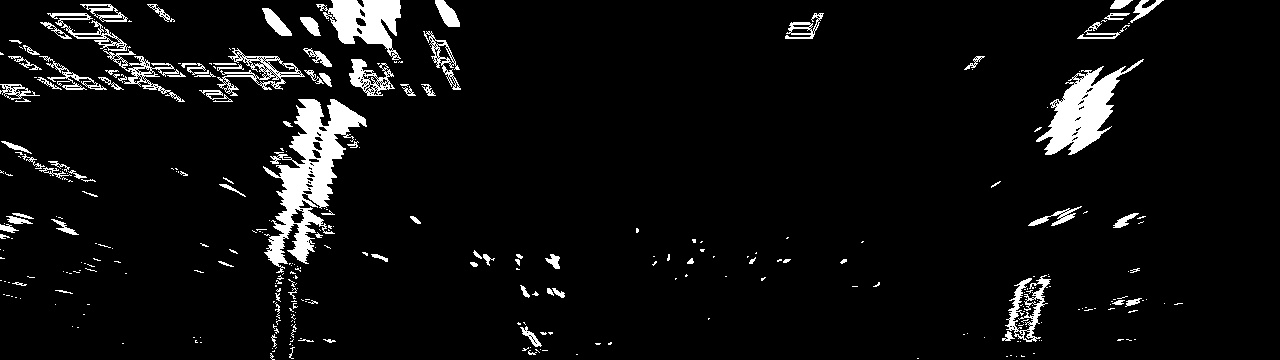
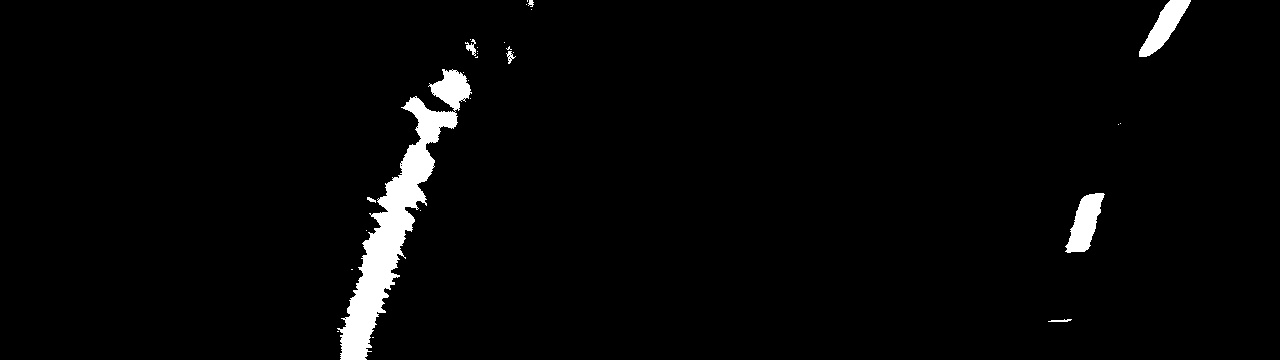
Update: Finding peaks well on test images

diff --git a/enhancer.py b/enhancer.py
@@ -2,7 +2,7 @@ import numpy as np
 import cv2
 
 # Edit this function to create your own pipeline.
-def enhance_lines(img, HLS_thresh=(170, 255), Gray_thresh=(20, 100)):
+def enhance_lines(img, HLS_thresh=(170, 255)):
     """ Apply Color, Sobel, and Thresholds to Enhance Lines
 
     Apply color, Sobel, and gradient thresholds to enhance the lane lines in an RGB image 
@@ -11,38 +11,40 @@ def enhance_lines(img, HLS_thresh=(170, 255), Gray_thresh=(20, 100)):
         img (RGB image): The image to be transformed.  *Color channels must be BGR*
         HLS_thresh (int pair, optional kwarg):
         The lower and upper thresholds for the S color channel after conversion to HLS.  Default=(170, 255)
-        Gray_thresh (int pair, optional kwarg):
-        The lower and upper thresholds for the X Sobel gradient.  Default=(20, 100)
     
     Returns:
         The transformed image (binary image)
     """
     # Convert to HSV color space and separate the channels
-    hsv = cv2.cvtColor(img, cv2.COLOR_RGB2HLS).astype(np.float)
+    hsv = cv2.cvtColor(img, cv2.COLOR_RGB2HSV) # .astype(np.float)
     h_channel = hsv[:,:,0]
-    l_channel = hsv[:,:,1]
+    s_channel = hsv[:,:,1]
+    v_channel = hsv[:,:,2]
+
+    # Mask the yellows
+    # low  = np.array([90, 85, 0])
+    # high = np.array([100, 255, 255])
+    low  = np.array([90, 85, 0])
+    high = np.array([101, 255, 255])
+    yellows = cv2.inRange(hsv, low, high)
+    cv2.imshow('Yellows', yellows)
+
+    # Mask the whites
+    low  = np.array([0, 0, 200])
+    high = np.array([255, 25, 255])
+    whites = cv2.inRange(hsv, low, high)
+    cv2.imshow('Whites', whites)
+
+    # Convert to HLS and threshold S
+    hsv = cv2.cvtColor(img, cv2.COLOR_RGB2HLS).astype(np.float)
     s_channel = hsv[:,:,2]
-
-    # Convert to grayscale
-    gray = cv2.cvtColor(img, cv2.COLOR_RGB2GRAY)
-    # cv2.imshow('Grayscale', gray)
-
-    # Sobel x grayscale
-    sobelx = cv2.Sobel(gray, cv2.CV_64F, 1, 0) # Take the derivative in x
-    abs_sobelx = np.absolute(sobelx) # Absolute x derivative to accentuate lines away from horizontal
-    scaled_sobel = 255*abs_sobelx/np.max(abs_sobelx)
-    
-    # Threshold x gradient grayscale
-    gray_binary = np.zeros_like(scaled_sobel, dtype=np.float)
-    gray_binary[(scaled_sobel >= Gray_thresh[0]) & (scaled_sobel <= Gray_thresh[1])] = 1
-    # cv2.imshow('Sobel', gray_binary)
-    
-    # Threshold S color channel
-    S_binary = cv2.inRange(s_channel, HLS_thresh[0], HLS_thresh[1]).astype(np.float)
-    # cv2.imshow('S Channel', S_binary)
+    s_binary = np.zeros_like(s_channel)
+    s_binary[(s_channel >= HLS_thresh[0]) & (s_channel < HLS_thresh[1])] = 1
+    s_binary = np.asarray(s_binary * 255, dtype=np.uint8)
+    cv2.imshow('s_binary', s_binary)
 
     # Combine the two binary thresholds
-    combined_binary = cv2.bitwise_or(gray_binary, S_binary)
+    combined_binary = cv2.bitwise_or(yellows, cv2.bitwise_or(whites, s_binary))
     
-    return np.asarray(combined_binary * 255, dtype=np.uint8)
+    return combined_binary
     

diff --git a/do_window.py b/do_window.py
@@ -15,10 +15,10 @@ from enhancer import enhance_lines
 # EVERY TIME WE ADJUST.
 #####################################################################
 
-
+print('Import done')
 
 # Read in an image
-fname = 'test1.jpg'
+fname = 'test6.jpg'
 
 # Reload the pickle
 dist_unpickled = pickle.load(open("camera_pickle.p", "rb"))
@@ -37,12 +37,13 @@ cv2.imshow('Birdseye view of {}'.format(fname), birdseye)
 print('birdseye shape: {}'.format(birdseye.shape))
 
 # Enhance the lines
-birdseye = enhance_lines(birdseye, HLS_thresh=[175, 250], Gray_thresh=[13, 150])
+# birdseye = enhance_lines(birdseye, HLS_thresh=[175, 250])
+birdseye = enhance_lines(birdseye, HLS_thresh=[200, 255])
 cv2.imshow('Enhanced {}'.format(fname), birdseye)
 
 # Grab the lower half
 halfsies = half_img(birdseye)
-cv2.imshow('Half of {}'.format(fname), halfsies)
+cv2.imshow('Lower Half of {}'.format(fname), halfsies)
 # cv2.imwrite('halfsies.jpg', halfsies)
 print('halfsies shape: {}'.format(halfsies.shape))
 
@@ -52,21 +53,38 @@ plt.plot(histogram)
 plt.show()
 
 # Get the moving average
-avg_width = 100
+# avg_width = 100
+# avg_width = 50
+avg_width = 25
 Mavg = moving_average(halfsies, width=avg_width)
 
-# Find the strongest peaks in the moving average
+# Find the nicest peaks in the moving average
 typical_line_maxWpx = 50
 typical_lane_maxWpx = 750
 peak_thresh = 0.5
 step = 0.05
 num_peaks = 0
-while num_peaks < 2: 
+found_twins = True
+nice_peaks = []
+while found_twins and len(nice_peaks) is 0: 
     peaks = find_peaks_cwt(Mavg > peak_thresh, [typical_line_maxWpx], max_distances=[typical_lane_maxWpx])
     num_peaks = len(peaks)
     peak_thresh -= step
+    if peak_thresh < 0 and num_peaks < 2:
+        found_twins = False
+    elif num_peaks > 1:
+        for p1 in peaks:  # did we find a pair about the right distance apart to be a lane?
+            for p2 in peaks:
+                dist = np.absolute(p2 - p1)
+                if dist > 600 and dist < 800:
+                    nice_peaks = [p1, p2]
+                    break
+            if len(nice_peaks) > 0:
+                break
 
-print('Peaks: {}'.format(peaks))
+both_lines = found_twins and len(nice_peaks) is 2
+
+print('Peaks: {}, Nice_Peaks: {}, Both_lines: {}'.format(peaks, nice_peaks, both_lines))
 
 plt.plot(Mavg)
 plt.show()

diff --git a/slider.py b/slider.py
@@ -12,4 +12,5 @@ def moving_average(img, width=32):
     cols = np.mean(img[:,:], axis=0)
     Mavg = np.cumsum(cols, dtype=float)
     Mavg[width:] = Mavg[width:] - Mavg[:-width]
-    return (Mavg[width - 1:] / width) / np.max(cols)
+    Mavg = (Mavg[width - 1:] / width) / np.max(cols)
+    return Mavg / np.max(Mavg) # scale to 0.0 - 1.0
